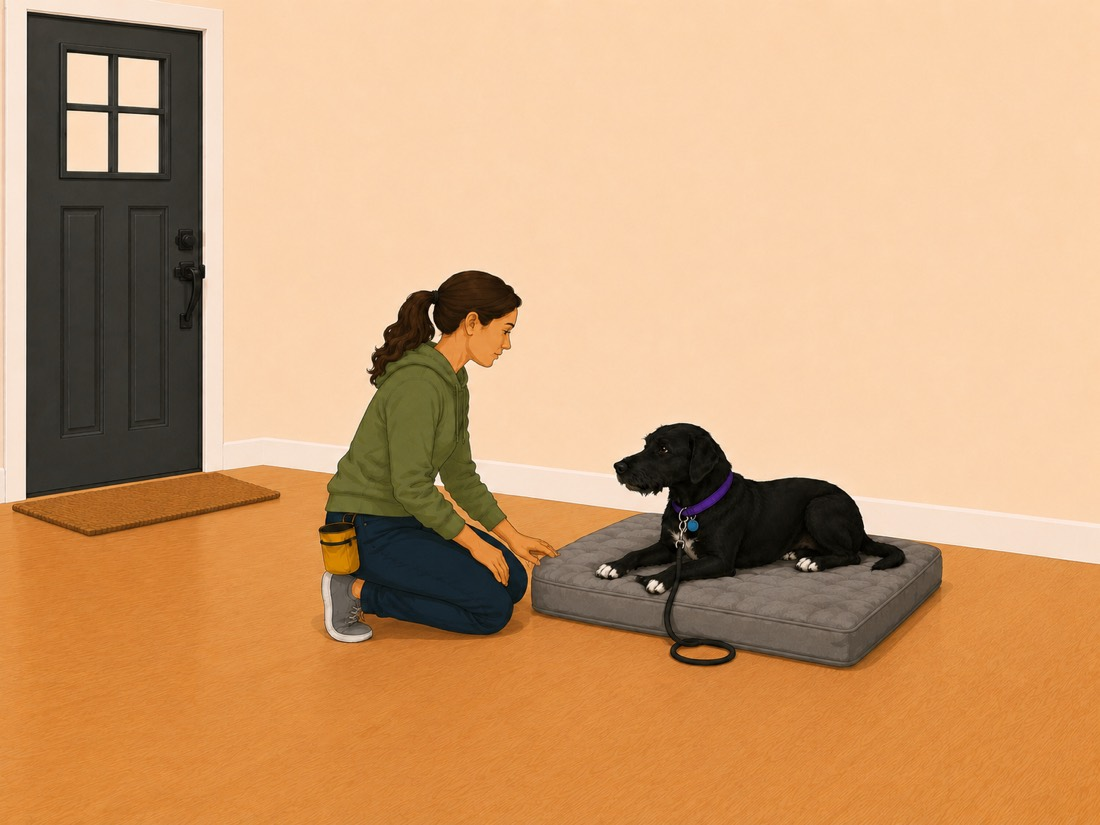
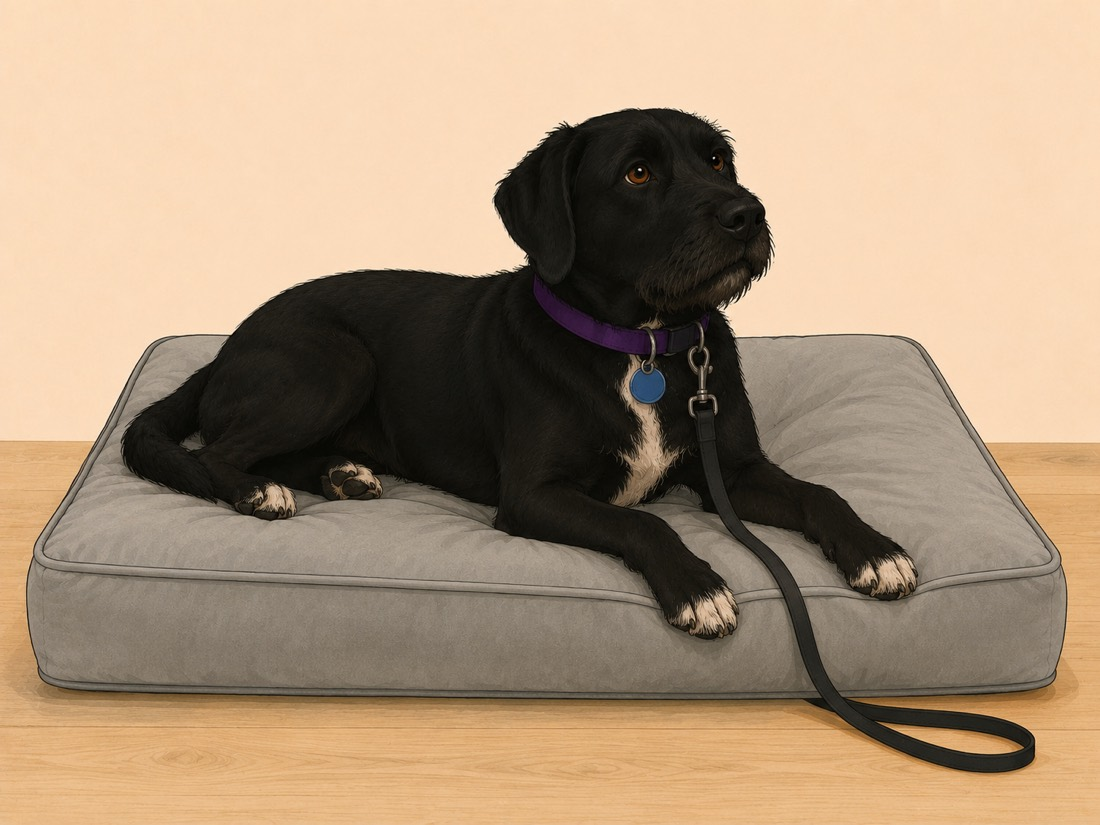
Give the last cover its own shape, and stop at the ceiling
`door-place-cover` is the dog alone on her bed now — no door, no person, filling
the frame. With it the four covers are four shapes rather than four scenes: a
close two-shot, a bright doorway, a lone dark mass on a pale rectangle, and two
upright figures.

Re-tested as a set. Still ten of twelve, the same as both earlier runs, but the
result changed in the way that matters. The first run had viewers converging on
one collision and the second had them unanimous on it; this one has all three
naming different pairs and agreeing on none. Every viewer described all four
distinctly and accurately, where the first run returned three of them in the
same words. That was the defect and it is closed.

The score did not move because the score was never only about the pictures. One
viewer read both images correctly and still mapped them to the wrong activity,
and another named the reason: the difference between these activities is
behavioural, not visual, so a thumbnail cannot carry it. Doorbell Predicts
Rewards, Doorbell Means Place and Stay While the Door Opens are three protocols
about a dog, a door and a bed.

The matching task is also stricter than the app. On the map every cover sits
beside its activity name and its own icon, so the picture never has to identify
the activity by itself — it only has to not be its neighbour's twin. Pushing for
twelve of twelve would mean optimising against a test harder than the product,
[…]

diff --git a/js/version.js b/js/version.js
@@ -10,7 +10,7 @@
  * The 1.12 lineage continues the old hand-bumped cache names, which reached
  * lucy-learns-v11 before this file existed.
  */
-export const APP_VERSION = '1.64.0';
+export const APP_VERSION = '1.65.0';
 
 /**
  * The day this build went out, shown under the version on the splash.

diff --git a/docs/comprehension-survey.md b/docs/comprehension-survey.md
@@ -412,17 +412,7 @@ same session.
 
 **Scoring key —** the treat arrives down at the bed, and she has not moved to get it.
 
-### Q20. Place, composed as a cover
-
-![door-place-cover](https://adamdhickey-collab.github.io/lucy-learns/img/door-place-cover.jpg)
-
-`door-place-cover.jpg` · 1 reference
-
-> **Ask:** In one sentence, what is the person doing, and what is the dog doing?
-
-**Scoring key —** the door is over there and she is settled on her bed, away from it.
-
-### Q21. Halfway to the door
+### Q20. Halfway to the door
 
 ![door-stay-03-halfway](https://adamdhickey-collab.github.io/lucy-learns/img/door-stay-03-halfway.jpg)
 
@@ -432,7 +422,7 @@ same session.
 
 **Scoring key —** half the room between them, and the handler has stopped to check.
 
-### Q22. Hand on the handle
+### Q21. Hand on the handle
 
 ![door-stay-03-handle](https://adamdhickey-collab.github.io/lucy-learns/img/door-stay-03-handle.jpg)
 
@@ -442,7 +432,7 @@ same session.
 
 **Scoring key —** her hand is on the handle and the door has not opened.
 
-### Q23. Crack the door
+### Q22. Crack the door
 
 ![door-stay-03-crack](https://adamdhickey-collab.github.io/lucy-learns/img/door-stay-03-crack.jpg)
 
@@ -452,7 +442,7 @@ same session.
 
 **Scoring key —** a few inches of daylight, and she is still on her bed.
 
-### Q24. The imaginary conversation
+### Q23. The imaginary conversation
 
 ![door-stay-03-conversation](https://adamdhickey-collab.github.io/lucy-learns/img/door-stay-03-conversation.jpg)
 
@@ -462,7 +452,7 @@ same session.
 
 **Scoring key —** a long, relaxed conversation at the open door, and she is holding the bed right through it.
 
-### Q25. Four paws on the floor
+### Q24. Four paws on the floor
 
 ![plan-fourpaws](https://adamdhickey-collab.github.io/lucy-learns/img/plan-fourpaws.jpg)
 
@@ -472,7 +462,7 @@ same session.
 
 **Scoring key —** all four feet are down.
 
-### Q26. Someone passes on the pavement
+### Q25. Someone passes on the pavement
 
 ![plan-walkpeople](https://adamdhickey-collab.github.io/lucy-learns/img/plan-walkpeople.jpg)
 
@@ -482,7 +472,7 @@ same session.
 
 **Scoring key —** she is looking up at her handler while somebody walks by.
 
-### Q27. Her name, with something better going on
+### Q26. Her name, with something better going on
 
 ![plan-name](https://adamdhickey-collab.github.io/lucy-learns/img/plan-name.jpg)
 
@@ -492,7 +482,7 @@ same session.
 
 **Scoring key —** her head has turned to her handler and away from the squirrel.
 
-### Q28. The sound, as a close two-shot
+### Q27. The sound, as a close two-shot
 
 ![door-sound-cover](https://adamdhickey-collab.github.io/lucy-learns/img/door-sound-cover.jpg)
 
@@ -502,7 +492,7 @@ same session.
 
 **Scoring key —** the sound happened and she has turned to her person.
 
-### Q29. The stay, as an open door
+### Q28. The stay, as an open door
 
 ![door-stay-cover](https://adamdhickey-collab.github.io/lucy-learns/img/door-stay-cover.jpg)
 
@@ -511,6 +501,16 @@ same session.
 > **Ask:** In one sentence, what is the person doing, and what is the dog doing?
 
 **Scoring key —** the door is wide open and she has stayed where she is.
+
+### Q29. Place, as a dog on a bed and nothing else
+
+![door-place-cover](https://adamdhickey-collab.github.io/lucy-learns/img/door-place-cover.jpg)
+
+`door-place-cover.jpg` · 1 reference
+
+> **Ask:** In one sentence, what is the person doing, and what is the dog doing?
+
+**Scoring key —** she is settled on her own bed.
 
 ---
 

diff --git a/docs/comprehension-pilot.md b/docs/comprehension-pilot.md
@@ -204,10 +204,39 @@ a door.
 pair does not fix the pair. Both members define the collision, so both have to
 move — or the one that moves has to move much further than the other.
 
-## Outstanding
+## Third run: the defect is fixed, and the score cannot move
 
-`door-place-cover` should become the archetype it was assumed to be: **the dog
-alone on her bed, close, no door and no person in frame.** That leaves the four
-as a close two-shot, a bright doorway, a lone dog on a pale rectangle, and two
-upright figures — four shapes rather than four scenes. Re-run Block C after it
-lands, as a set, which is the only way this can be checked.
+`door-place-cover` redrawn as the dog alone on her bed — no door, no person —
+and all four re-tested as a set.
+
+Still 10/12, the same as both earlier runs. But the shape of the result changed:
+
+| Run | Pairs named as confusable |
+| --- | --- |
+| First | 2&3, 2&3, 1&2 — converging |
+| Second | 2&3, 2&3, 2&3 — unanimous |
+| Third | 1&3, 4&1, 2&3 — no agreement |
+
+And every viewer described all four **distinctly and accurately**: a close-up of
+two heads, a pale door with the dog set back from it, a dog alone on a bed with
+no people or door, two figures at a doorway. In the first run three of the four
+came back in the same words. That was the defect and it is gone.
+
+**The residual errors are not visual.** One viewer read both pictures correctly
+and still mapped them to the wrong names; another said why:
+
+> *"The difference between those two activities is behavioural/narrative, not
+> visual, so the thumbnail can't carry it."*
+
+That is right, and it is the ceiling. *Doorbell Predicts Rewards*, *Doorbell
+Means Place* and *Stay While the Door Opens* are three protocols about a dog, a
+door and a bed. No 56px picture encodes which protocol is which.
+
+**The matching task is also harder than the app.** On the program map every
+cover sits beside its activity name and its own icon. The picture never has to
+identify the activity alone — it only has to not be a duplicate of its
+neighbour, and it no longer is. Chasing 12/12 would mean optimising against a
+test stricter than the product.
+
+Stop here. If a fifth activity is added it needs a fifth *shape*, and this set
+test must be re-run — not the crop tests on the new cover by itself.
